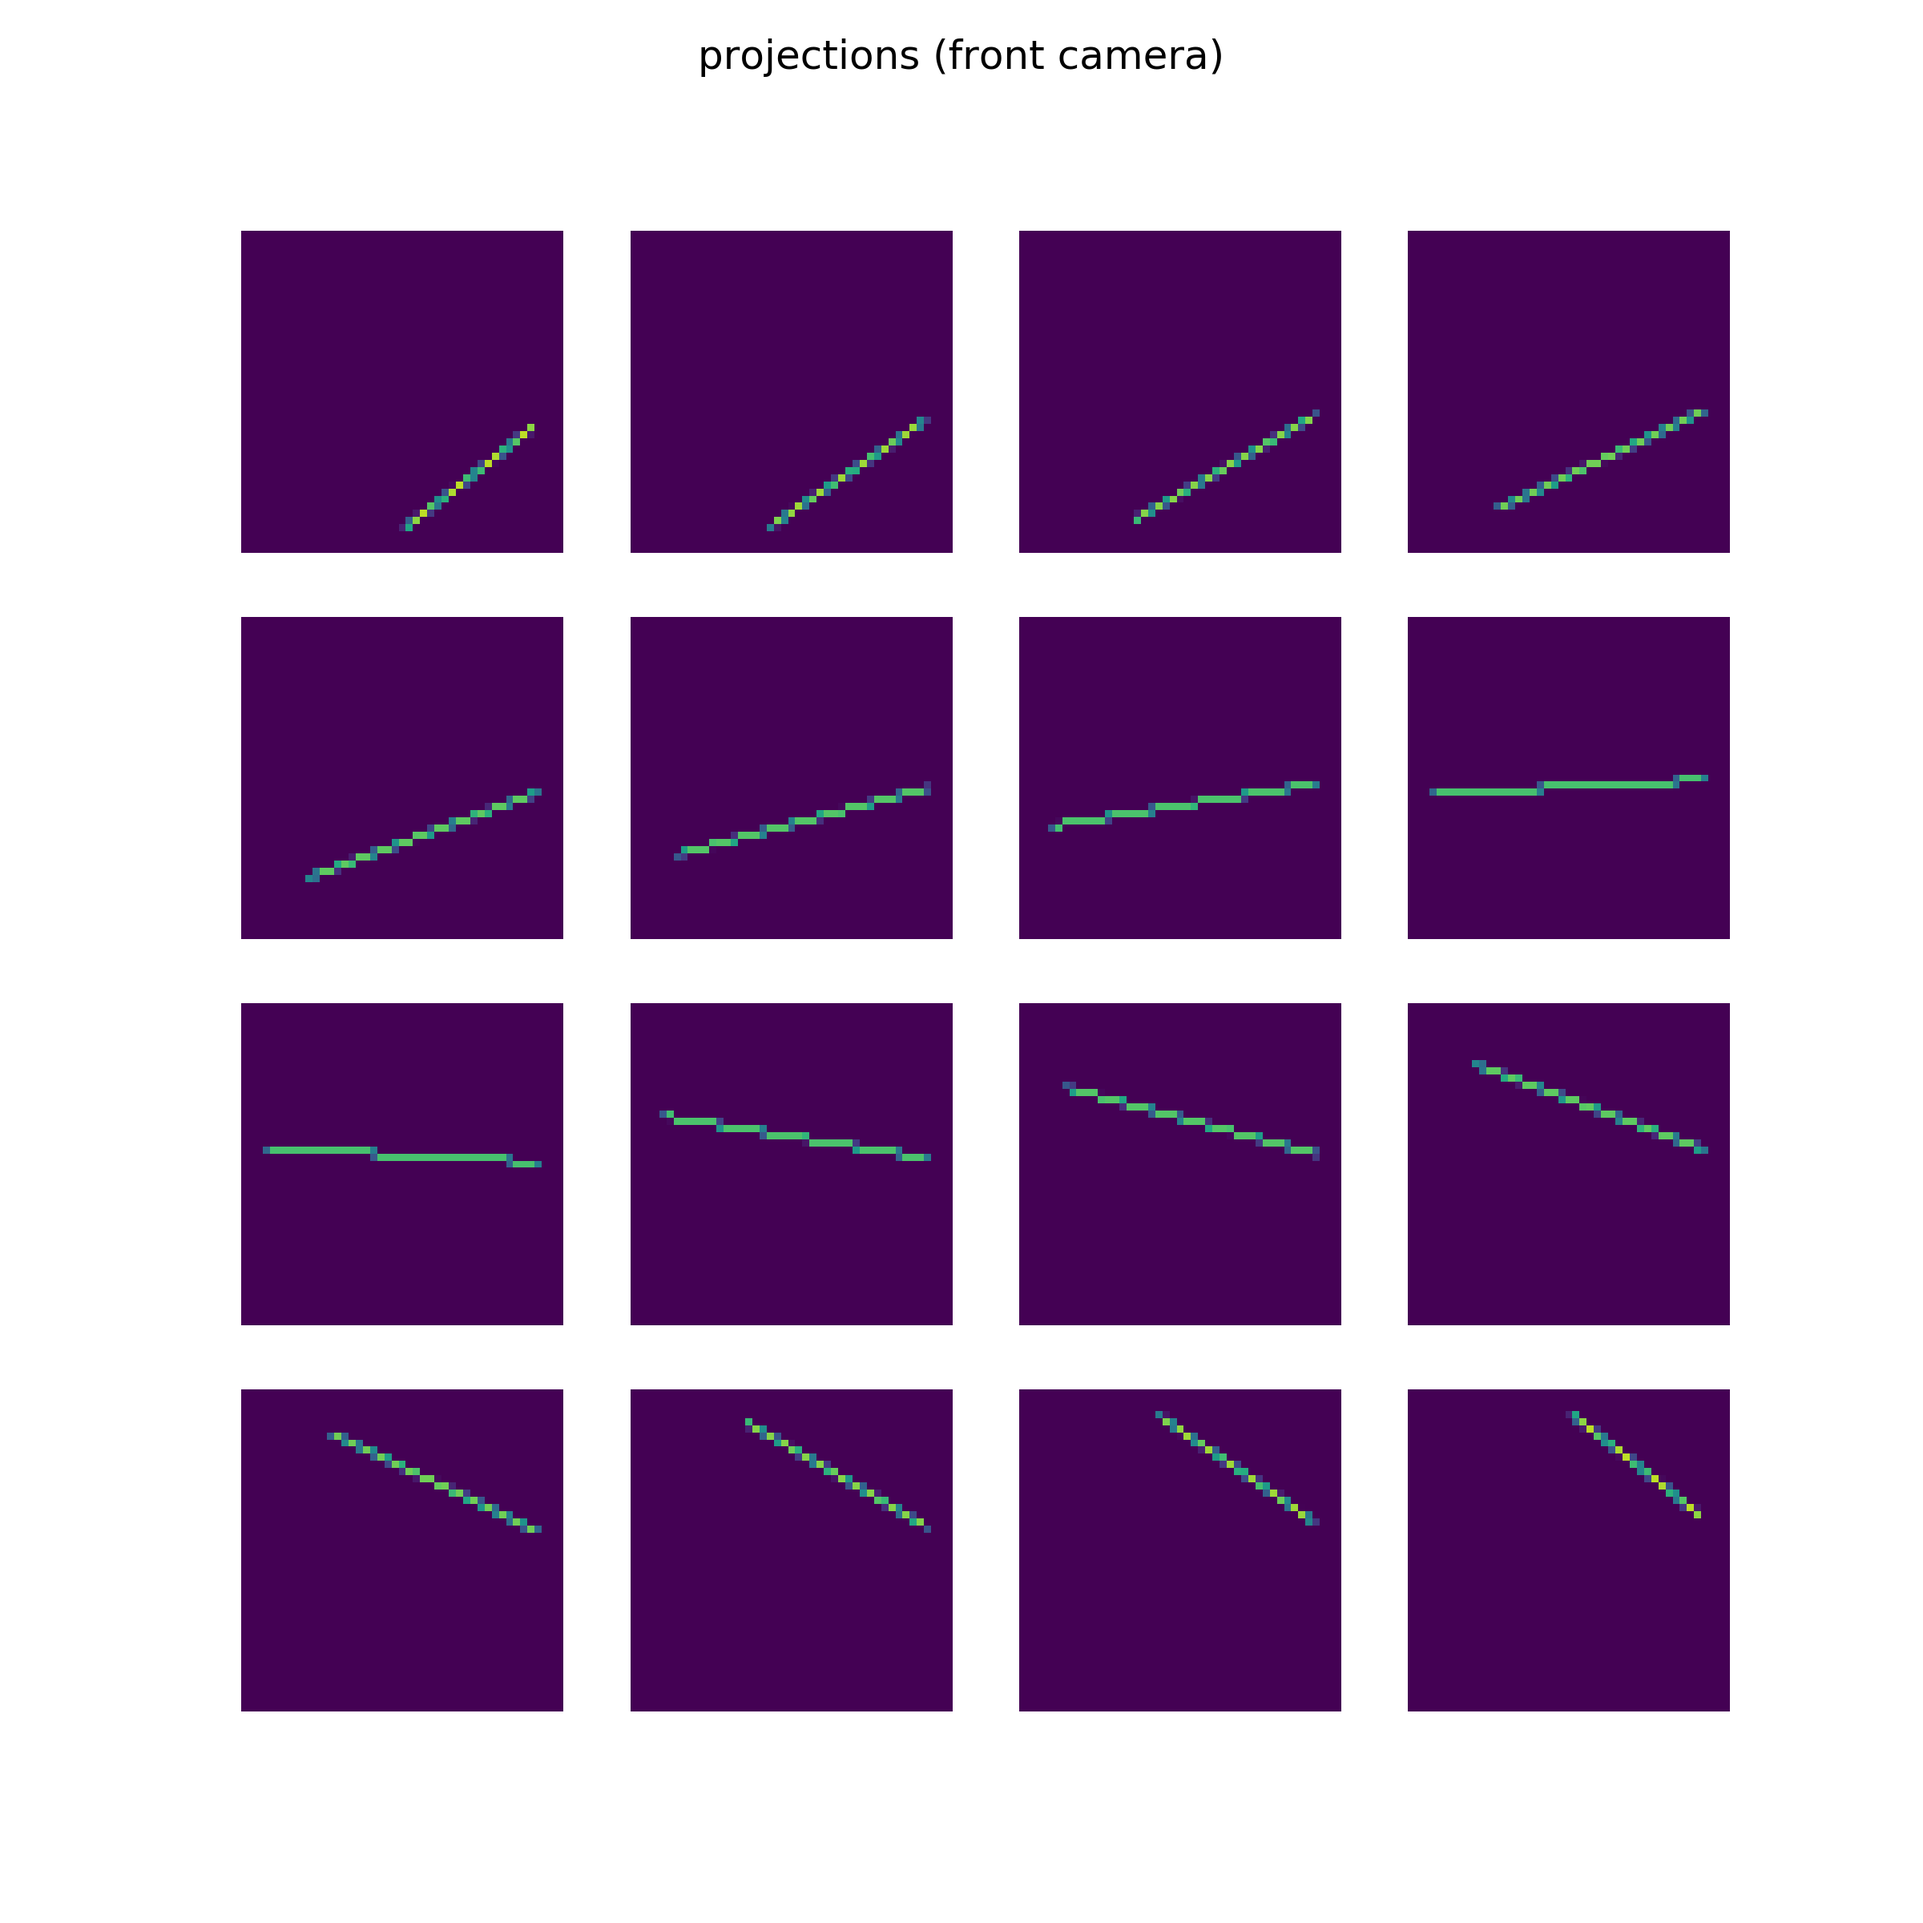
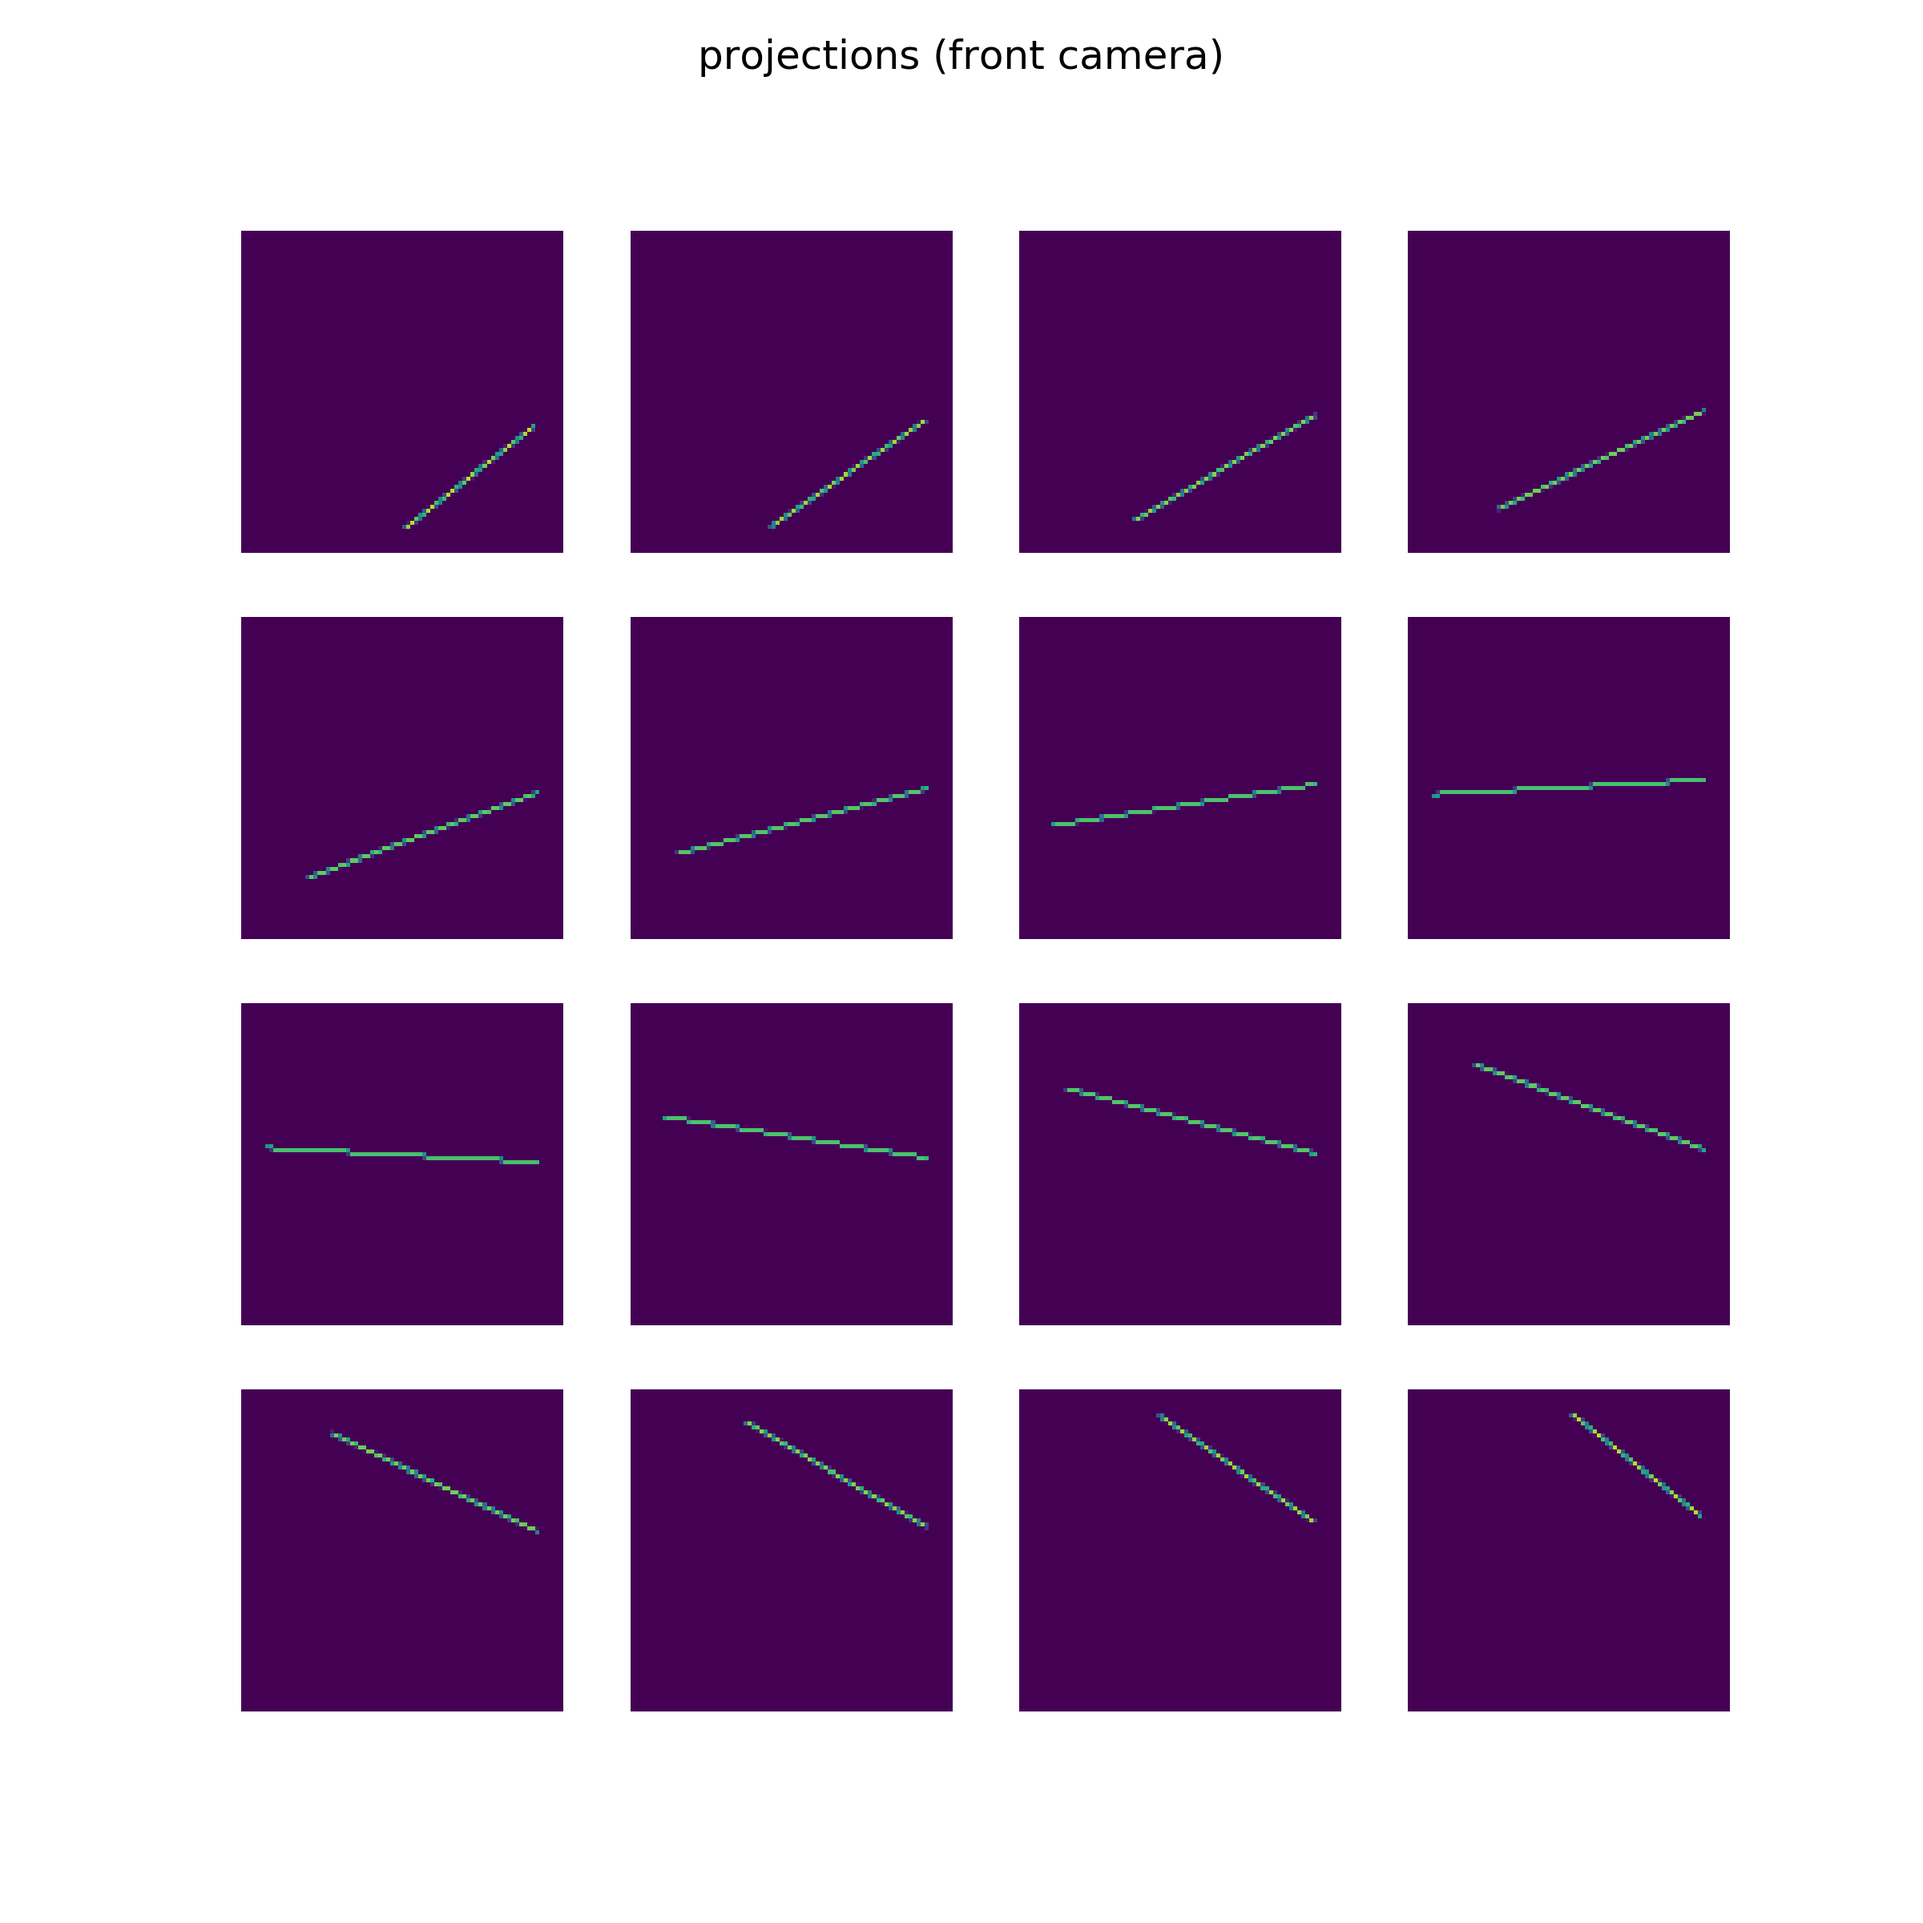
Minor changes

diff --git a/convergence/ReconstructSimulatedPhantom.py b/convergence/ReconstructSimulatedPhantom.py
@@ -9,6 +9,7 @@ from exportSignals import prepare_signals
 from calibrationShots import keys, times
 import numpy as np
 import matplotlib.pyplot as plt
+import matplotlib.contour as cnt
 from scipy.stats import pearsonr as correlation
 
 # plot = False
@@ -16,12 +17,10 @@ plot = True
 
 # Load the phantom ---------------------------------------------------------------------------------------
 
-phantom = produce_phantom(15., 15., 15., 1., 45, plot=False)
-phantom += produce_phantom(-15., 15., 15., 1., 45, plot=False)
-phantom += produce_phantom(5., -15., 15., 1., 45, plot=False)
-phantom += produce_phantom(0., 0., 65., 4., 45, plot=False)
-
-
+phantom = produce_phantom(mu_x=15., mu_y=15., fwhm=4.5, area=1., resolution=45, plot=False)
+# phantom += produce_phantom(-15., 15., 15., 1., 45, plot=False)
+# phantom += produce_phantom(5., -15., 15., 1., 45, plot=False)
+# phantom += produce_phantom(0., 0., 65., 4., 45, plot=False)
 
 plt.figure()
 plt.imshow(phantom.reshape((45, 45)))
@@ -59,23 +58,34 @@ mfi = MFI(projections, width=200., height=200., mask_radius=85.)
 #
 #     plt.show()
 
-# Run reconstruction -------------------------------------------------------------------------------------
+# Plot the sum of the projections -----------------------------------------------------------------------
 
-alpha_1 = 10. ** -7
-alpha_2 = 10. ** -7
+summed_projections = 0.
+# for i in range(len(projections)):
+for i in [0]:
+    summed_projections += projections[i]
+
+plt.figure()
+ax = plt.imshow(summed_projections)
+cnt.ContourSet(ax, [0.00001])
+
+# %% Run reconstruction -------------------------------------------------------------------------------------
+
+alpha_1 = 10. ** -7.5
+alpha_2 = 10. ** -7.5
 alpha_3 = 10. ** 0
 alpha_4 = 0
 
-g_list = mfi.reconstruction_gpu(signals=signals,
-                                stop_criteria=0,
-                                alpha_1=alpha_1,
-                                alpha_2=alpha_2,
-                                alpha_3=alpha_3,
-                                alpha_4=alpha_4,
-                                max_iterations=19,
-                                iterations=True,
-                                verbose=True,
-                                guess=None)
+# g_list = mfi.reconstruction_gpu(signals=signals,
+#                                 stop_criteria=0,
+#                                 alpha_1=alpha_1,
+#                                 alpha_2=alpha_2,
+#                                 alpha_3=alpha_3,
+#                                 alpha_4=alpha_4,
+#                                 max_iterations=19,
+#                                 iterations=True,
+#                                 verbose=True,
+#                                 guess=None)
 
 # Adaptive regularization constant -------------------------------------------------------------------
 
@@ -167,19 +177,18 @@ if plot:
 
     plt.show()
 
-    for G in g_list[-2:]:
-
-        plt.figure()
-        plt.axes().set_aspect('equal', 'datalim')
-        plt.pcolormesh(mfi.x_array_plot, mfi.y_array_plot, G, vmin=None, vmax=None)
-        plt.title(r"$\alpha$ = %f" % alpha_1)
-        # plt.imshow(g.reshape((n_rows, n_cols)))
-        # plt.plot(center_x, center_y, 'r+')
-        # plt.plot(max_x, max_y, 'b+')
-        plt.colorbar()
-        circle = plt.Circle((0., 0.), 85., color='w', fill=False)
-        plt.gca().add_artist(circle)
-        # plt.savefig("phantom-reconstructions/phantom-%d-reconstruction.png" % phantom_number)
-
-    plt.show()
-# plt.show()
+    # for G in g_list[-2:]:
+    #
+    #     plt.figure()
+    #     plt.axes().set_aspect('equal', 'datalim')
+    #     plt.pcolormesh(mfi.x_array_plot, mfi.y_array_plot, G, vmin=None, vmax=None)
+    #     plt.title(r"$\alpha$ = %f" % alpha_1)
+    #     # plt.imshow(g.reshape((n_rows, n_cols)))
+    #     # plt.plot(center_x, center_y, 'r+')
+    #     # plt.plot(max_x, max_y, 'b+')
+    #     plt.colorbar()
+    #     circle = plt.Circle((0., 0.), 85., color='w', fill=False)
+    #     plt.gca().add_artist(circle)
+    #     # plt.savefig("phantom-reconstructions/phantom-%d-reconstruction.png" % phantom_number)
+    #
+    # plt.show()

diff --git a/projections.py b/projections.py
@@ -17,8 +17,8 @@ print(df)
 
 # -----------------------------------------------------------------------------------------
 
-n_rows = 45  # y-axis pixel resolution
-n_cols = 45  # x-axis pixel resolution
+n_rows = 80  # y-axis pixel resolution
+n_cols = 80  # x-axis pixel resolution
 
 x_min = -100.
 x_max = +100.
@@ -69,10 +69,17 @@ projections = np.array(projections)
 print('projections:', projections.shape, projections.dtype)
 
 # -------------------------------------------------------------------------
+res_x = (x_max - x_min) / float(n_cols)
+res_y = (y_max - y_min) / float(n_rows)
 
-fname = 'projections/line-approximation.npy'
+x_coord = np.linspace(x_min + res_x * 0.5, x_max - res_x * 0.5, num=n_cols)
+y_coord = np.linspace(y_max - res_y * 0.5, y_min + res_y * 0.5, num=n_rows)
+
+proj_dic = {'x': x_coord, 'y': y_coord, 'projections': projections}
+
+fname = 'projections/line-approximation-80.npy'
 print('Writing:', fname)
-np.save(fname, projections)
+np.save(fname, [proj_dic])
 
 # -------------------------------------------------------------------------
 

diff --git a/convergence/projections-plot.py b/convergence/projections-plot.py
@@ -52,7 +52,7 @@ y_gridHD = projections_dicHD['y']
 
 
 summed_projections = 0.
-projection_indices = [0, 3]
+projection_indices = [32, 34]
 # for i in range(len(projections)):
 for i in projection_indices:
     summed_projections += projections[i]
@@ -64,7 +64,7 @@ plt.pcolormesh(x_grid - 0.5 * (x_grid[1] - x_grid[0]),
                summed_projections)
 # plt.pcolormesh(x_grid, y_grid, summed_projections)
 plt.axis('scaled')
-plt.axis(xmin=0, xmax=85, ymin=-85, ymax=85)
+plt.axis(xmin=-85, xmax=85, ymin=-85, ymax=85)
 plt.colorbar()
 
 # Plot contour lines around the cones of sight ---------------------------------------------------------

diff --git a/globalParameters.py b/globalParameters.py
@@ -2,8 +2,8 @@ import numpy as np
 
 # Discretization Parameters ---------------------------------------------------
 
-n_rows = 45  # y-axis number of pixels
-n_cols = 45  # x-axis number of pixels
+n_rows = 80  # y-axis number of pixels
+n_cols = 80  # x-axis number of pixels
 
 x_min = -100.
 x_max = +100.

diff --git a/profiling/wrapper.py b/profiling/wrapper.py
@@ -3,7 +3,7 @@ sys.path.append("../")
 import reconstructPlasma
 import reconstructPhantom
 
-reconstructPhantom.phantom(7)
+reconstructPhantom.phantom(3)
 
 # Run in terminal: kernprof -l -v wrapper.py
 # To read again: python -m line_profiler wrapper.py.lprof
